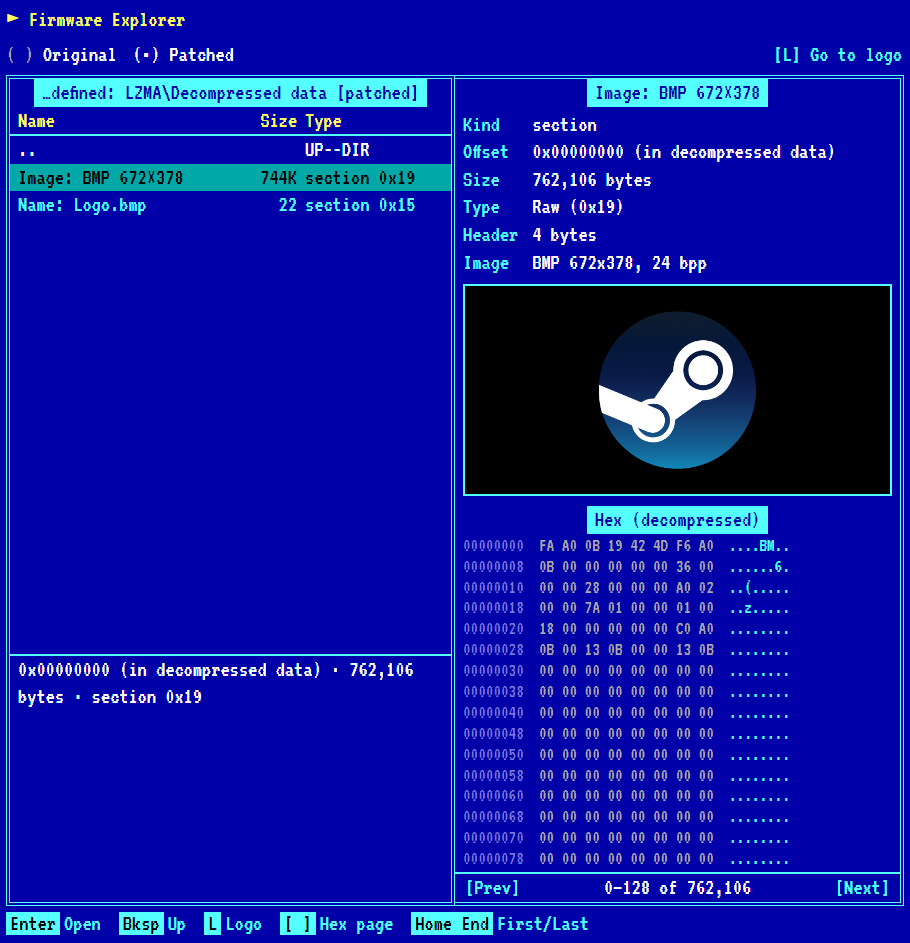
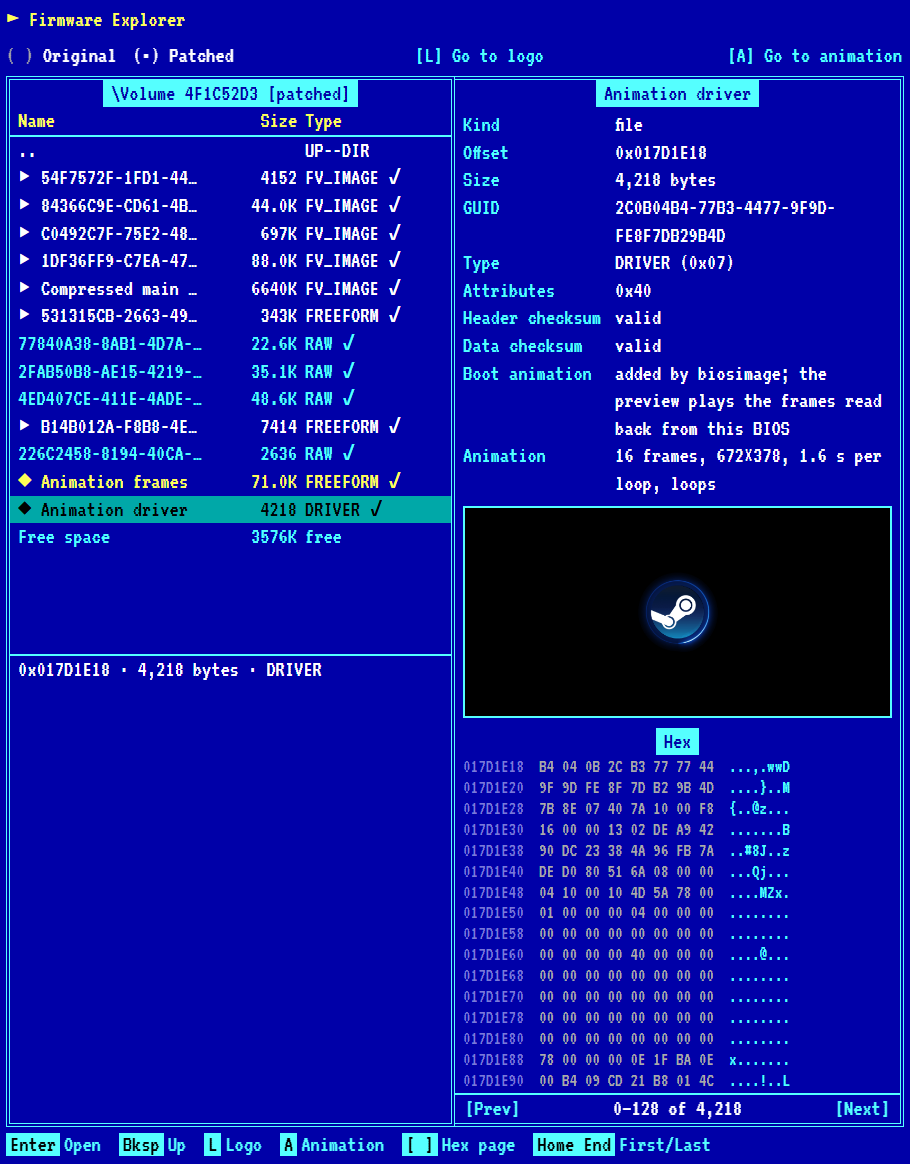
Polish animation explorer labels and refresh screenshots

Changed region(s): [[0.0, 0.0, 1.0, 1.0], [0.0, 0.6766, 0.3692, 0.7688], [0.3692, 0.6766, 0.4615, 0.7381]]

diff --git a/web/index.html b/web/index.html
@@ -218,7 +218,7 @@
             </div>
           </div>
         </div>
-        <div class="nc-keys"><span><b>Enter</b>Open</span><span><b>Bksp</b>Up</span><span><b>L</b>Logo</span><span><b>[ ]</b>Hex page</span><span><b>Home End</b>First/Last</span></div>
+        <div class="nc-keys"><span><b>Enter</b>Open</span><span><b>Bksp</b>Up</span><span><b>L</b>Logo</span><span id="nc-key-anim" hidden><b>A</b>Animation</span><span><b>[ ]</b>Hex page</span><span><b>Home End</b>First/Last</span></div>
       </section>
     </main>
 

diff --git a/web/explorer.js b/web/explorer.js
@@ -54,7 +54,7 @@ function ncSetImage(which, id) {
 
 // ncButtons offers [A] for an image that has a boot animation (the patched one, if any).
 function ncButtons() {
-  $('nc-anim').hidden = !ncSource()?.animPath.length;
+  $('nc-anim').hidden = $('nc-key-anim').hidden = !ncSource()?.animPath.length;
 }
 
 // ncLoad fetches the tree of image id for the given source.

diff --git a/cmd/wasm/explore.go b/cmd/wasm/explore.go
@@ -329,9 +329,9 @@ func describeFile(n *uefi.Node) description {
 	case f.GUID == uefi.LogoFileGUID:
 		d.name = "Boot logo"
 	case f.GUID == uefi.AnimationDriverGUID:
-		d.name = "Boot animation driver"
+		d.name = "Animation driver"
 	case f.GUID == uefi.AnimationDataGUID:
-		d.name = "Boot animation frames"
+		d.name = "Animation frames"
 	case f.Type == uefi.FileTypePad:
 		d.kind, d.name = "pad", "Pad file"
 	default:

diff --git a/README.md b/README.md
@@ -7,13 +7,13 @@ ASUS publishes for its mainboards.
 and an image (PNG, SVG, JPEG, ...), position the logo, and download the patched BIOS.
 Everything runs locally in WebAssembly; nothing is uploaded.
 
-![biosimage replacing the TUF GAMING boot logo of an ASUS BIOS with the Steam logo](docs/screenshot.png)
+![biosimage replacing the TUF GAMING boot logo of an ASUS BIOS with an animated Steam logo](docs/screenshot.png)
 
 A read-only, Norton Commander style **firmware explorer** shows the structure of the image
 (volumes, files, sections, checksums, compressed volumes, embedded images) with a hex view, for
 the original and the patched file, so you can see exactly what changed:
 
-![The firmware explorer showing the new logo inside the patched BIOS](docs/explorer.png)
+![The firmware explorer showing the animation driver and a preview of its frames in the patched BIOS](docs/explorer.png)
 
 There is also a command-line tool:
 
